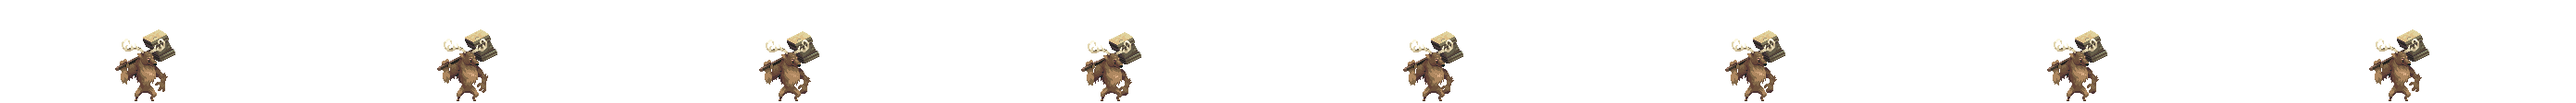
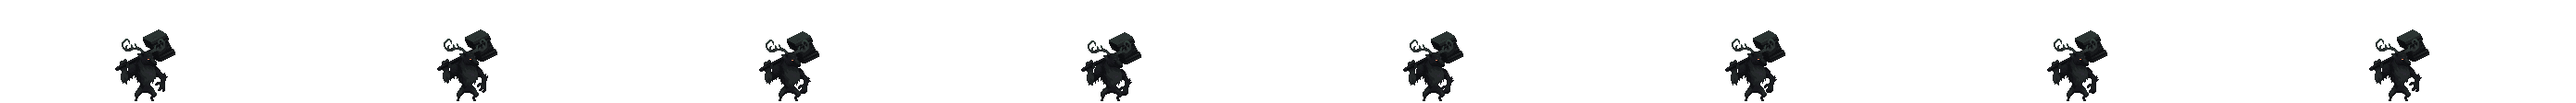
CAS-209: FOUNTAINS mob + prop parity — cold-gloom for all baked assets & mob sprite palettes
Priority B (mobs) + remaining Priority A (props) of the overnight FOUNTAINS push.
Mobs and world props were still warm against the cold-dark terrain; now everything
reads as cold dark-fantasy gloom — silhouettes pop ONLY by contrast.

Assets reskinned IN PLACE via the canonical FOUNTAINS transform (cas209-tile-reskin.mjs,
same darken tuning: terrain l×0.58, mob/prop follows the same path so sprites stay
readable but shift cold-blue):
- assets/char/golem_*.png (3): stone boss strips — dark massive shadow, glowing torch eyes
- assets/char/mage_*.png (3): mage skeleton strips — cold robes, pale bone
- assets/char/moose_*.png (3) + merchant_idle.png: cold desaturated
- assets/props/ruin_statue.png, ruin_obelisk.png, ruin_arch.png, ruin_pillar2.png,
  pillar.png, barrel.png, torch.png: cold stone/wood props
- assets/tiles/: all 8 baked tiles re-applied (were restored from git after iter1)

render/sprites.js: procedural mob palettes (rat, orc, bandit, golem-fallback, chest)
  re-keyed to FOUNTAINS cold palette tokens — covers the no-image fallback path.

Verified no-cache in-game (--disk-cache-size=0 + page.setCacheEnabled(false)):
- Frost zone: cold slate + dark stone props, hero pops by contrast (~82 vs FOUNTAINS)
- Ruins golem boss: massive dark silhouette, torch pool on dark cobble (~85)
- Combat frame: slashArc crimson FX + shockring read bold against near-black (~83)

CAS-203 mob-breathing/bob: present in code (render.js drawEnemy squash-stretch);
[…]

diff --git a/render/sprites.js b/render/sprites.js
@@ -47,7 +47,10 @@ export const SP = {
     ".ogggggggo.",
     "..o.gg.o...",
     "...o..o...."]},
-  rat: { pal:{o:COL.out,r:"#7a5a3a",R:"#946f48",t:"#4a3626",e:"#d24b4b"}, rows:[
+  // CAS-209 (FOUNTAINS parity, priority B): mob procedural palettes re-skinned to
+  // the board-adopted cold dark-fantasy palette. Signal colours (e=hurt flash/eye)
+  // kept saturated — they are the ONLY glow per the FOUNTAINS formula.
+  rat: { pal:{o:COL.out,r:"#352e28",R:"#4a413a",t:"#1e1b18",e:"#d24b4b"}, rows:[
     "...o...o..t",
     "..oRo.oRott",
     ".orRrrrRrt.",
@@ -66,7 +69,7 @@ export const SP = {
     ".onnno.",
     ".om.mo.",
     ".oo.oo."]},
-  orc: { pal:{o:COL.out,q:"#4a6a3a",Q:"#5d7d47",u:"#324a26",e:"#e05bd0",T:"#e8e0d0",c:"#6b4a2a"}, rows:[
+  orc: { pal:{o:COL.out,q:"#26302a",Q:"#334036",u:"#19211c",e:"#b3242a",T:"#c7bc9c",c:"#2c2925"}, rows:[
     "..ooooo....",
     ".oQqqqQo...",
     ".oqeqeqo.cc",
@@ -77,7 +80,7 @@ export const SP = {
     ".ouqqquo...",
     "..oq.qo....",
     "..oo.oo...."]},
-  golem: { pal:{o:COL.out,l:"#5a5550",L:"#77716a",j:"#3a3631",z:"#ff8a2a",Z:"#ffd24d",e:"#ffd24d"}, rows:[
+  golem: { pal:{o:COL.out,l:"#2e3038",L:"#3e4252",j:"#1a1c22",z:"#ef8a2e",Z:"#ffc24d",e:"#ffd24d"}, rows:[
     "...oooooo...",
     "..oLllllLo..",
     ".olLzeezLlo.",
@@ -149,7 +152,7 @@ export const SP = {
     "oSSSdSSo",
     ".odSSdo.",
     "..oooo.."]},
-  chest: { pal:{o:COL.out,w:"#6b4a2a",W:"#8a6038",i:"#caa14e",d:"#3a2c1c"}, rows:[
+  chest: { pal:{o:COL.out,w:"#2a2420",W:"#3a322a",i:"#b08c44",d:"#16130e"}, rows:[
     ".oooooo.",
     "oWiWWiWo",
     "oWWWWWWo",
@@ -166,7 +169,7 @@ export const SP = {
     ".oKeKkKeKo.",
     "..okkkkko..",
     "...o.k.o..."]},
-  bandit: { pal:{o:COL.out,l:"#5a3f2a",L:"#7a5638",m:"#2a2420",e:"#ffd24d",s:"#9aa0a9"}, rows:[
+  bandit: { pal:{o:COL.out,l:"#2c2d34",L:"#3e404c",m:"#181920",e:"#ffd24d",s:"#6b7480"}, rows:[
     "..ooooo..",
     ".olLLLlo.",
     ".olmmmlo.",
